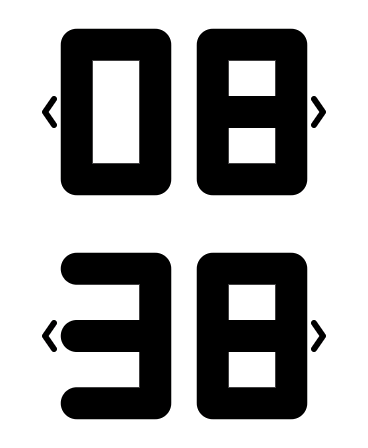
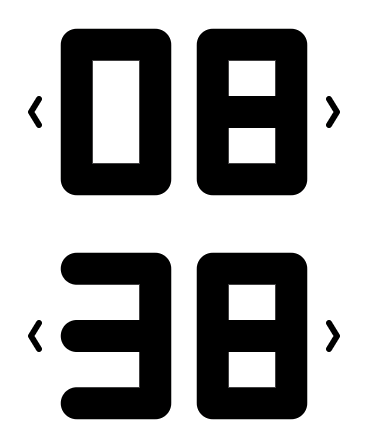
clock: the 1 stops hugging its right rail, and the separator breathes
Three things the owner judged on the emulator rather than in the abstract.

THE CENTRING, which I had explained instead of fixing. He was right that
nothing had moved. The face IS symmetric to the pixel - the separator sits
dead centre and the four digit cells leave 48px either side - but a leading 1
lights only segments b and c, hugging its cell's right rail, so 15:00 shows
110px of paper on the left against 48 on the right and reads as shoved over.
On real seven-segment glass that is forced by the hardware; here the numerals
are drawn, so it was a choice, and the wrong one. The 1 is now centred inside
its own cell. Nothing else moves, so the face does not shift as the time
changes.

THE FADE. He asked to try one, then found the first attempt stepped: sixteen
levels a cycle, ramped linearly, turning around at each end with a corner. It
is now 32 levels on a raised cosine, which slows into both ends and moves
fastest through the middle - which is what "a soft pulse" means to an eye.
Precomputed as sixteen bytes rather than called: no float, no libm, identical
every run. The cost is stated where it is paid: about 106,000 px/sec, two
thirds of one full-panel repaint per second, eight times the hard blink it
replaced, and confined to a cell that was already being pushed.

THE CHEVRONS, upright: "push the arrows away from the numbers, centered
between the end of the screen (minus the margin) and the numbers." Each is now
[…]

diff --git a/devices/rp2350-amoled-1.8/emulator/wasm/tests/feature-clock.ts b/devices/rp2350-amoled-1.8/emulator/wasm/tests/feature-clock.ts
@@ -86,8 +86,17 @@ const CHEV_L_GAP = 36;                // clock.c CHEV_L_GAP
 // positions that matter are the shared left/right X offsets, not a per-line
 // Y offset the way the old up/down layout needed.
 const CHEV_P_HOURS_CY = P_Y_HOURS + P_DIGIT_H / 2, CHEV_P_MIN_CY = P_Y_MINUTES + P_DIGIT_H / 2;
-const CHEV_P_LEFT_BASE = P_DIGIT_X[0]! - CHEV_P_GAP, CHEV_P_LEFT_APEX = CHEV_P_LEFT_BASE - CHEV_P_H;
-const CHEV_P_RIGHT_BASE = P_DIGIT_X[1]! + P_DIGIT_W + CHEV_P_GAP, CHEV_P_RIGHT_APEX = CHEV_P_RIGHT_BASE + CHEV_P_H;
+// Upright chevrons are centred in the free space between the bezel margin and
+// the digit block, not offset from the digits - clock.c's CHEV_P_LEFT_MID /
+// CHEV_P_RIGHT_MID, evaluated the same way here. Derived from the same spans
+// the firmware uses, so moving either the digits or the margin moves both
+// together instead of leaving this file probing empty paper.
+const CHEV_P_LEFT_MID = Math.floor((BEZEL + P_DIGIT_X[0]!) / 2);
+const CHEV_P_RIGHT_MID = Math.floor(((P_DIGIT_X[1]! + P_DIGIT_W) + (PANEL_W - BEZEL)) / 2);
+const CHEV_P_LEFT_BASE = CHEV_P_LEFT_MID + Math.floor(CHEV_P_H / 2);
+const CHEV_P_LEFT_APEX = CHEV_P_LEFT_MID - Math.floor(CHEV_P_H / 2);
+const CHEV_P_RIGHT_BASE = CHEV_P_RIGHT_MID - Math.floor(CHEV_P_H / 2);
+const CHEV_P_RIGHT_APEX = CHEV_P_RIGHT_MID + Math.floor(CHEV_P_H / 2);
 const CHEV_L_UP_BASE = L_Y0 - CHEV_L_GAP, CHEV_L_UP_APEX = CHEV_L_UP_BASE - CHEV_H;
 const CHEV_L_DN_BASE = L_Y0 + L_DIGIT_H + CHEV_L_GAP, CHEV_L_DN_APEX = CHEV_L_DN_BASE + CHEV_H;
 
@@ -742,9 +751,17 @@ async function main() {
         dev.tick(t);
         pulseLevels.add(landGray(dev.fbSnapshot(), dotsProbeX, dotsProbeY));
     }
-    check("the dots pulse between two ink levels on a working face, rather than sitting fixed",
-        pulseLevels.size >= 2 && pulseLevels.size <= 3,
-        `${pulseLevels.size} distinct ink levels over 5s: ${[...pulseLevels].sort((a, b) => a - b).join(", ")}`);
+    // Was "exactly two levels", which pinned the hard blink this started as.
+    // The owner then asked for a fade ("j'aimerais un fondu plus doux comme
+    // un pulse vraiment doux"), so two levels is now the FAILURE it would be
+    // measuring for: a switch, not a breath. What still has to hold is that
+    // it sweeps, and that it reaches both ends rather than hovering in some
+    // comfortable grey - a fade that never fully arrives reads as a smudge.
+    const sorted = [...pulseLevels].sort((a, b) => a - b);
+    const lo = sorted[0] ?? 255, hi = sorted[sorted.length - 1] ?? 0;
+    check("the dots fade rather than switch, and the sweep reaches both fully lit and fully gone",
+        pulseLevels.size >= 8 && lo <= 16 && hi >= 244,
+        `${pulseLevels.size} distinct ink levels over 5s, ${lo}..${hi}: ${sorted.join(", ")}`);
 
     // ---- 6. all four TURN edges, checked against the panel itself -----------
     console.log("\n-- the four TURN edges: top/bottom portrait, right/left long-ways --");

diff --git a/devices/rp2350-amoled-1.8/firmware/apps/clock.c b/devices/rp2350-amoled-1.8/firmware/apps/clock.c
@@ -376,6 +376,30 @@ static const int P_DIGIT_Y[4] = { P_Y_HOURS, P_Y_HOURS, P_Y_MINUTES, P_Y_MINUTES
 // a separator that is either there or is not cannot be confused with it.
 #define DOTS_PULSE_HALF_MS 1000u
 #define DOTS_PULSE_FAINT  255
+// How many ink levels one whole cycle is quantised into - see
+// dots_pulse_ink(). Even, so the curve has a symmetric peak.
+//
+// 32, not 16. At 16 the owner could see the steps: "le fondu est un peu trop
+// saccadé, j'aimerais un fondu plus doux comme un pulse vraiment doux".
+// Sixteen redraws a second is the point where the separator stops looking
+// like it is being switched through positions and starts looking like it is
+// breathing.
+#define DOTS_PULSE_STEPS  32u
+
+// A RAISED COSINE, not a straight ramp, and that is half of why the first
+// attempt read as jerky. A linear fade spends as long crossing the greys
+// nobody can tell apart as it does crossing the ones they can, and it turns
+// around at each end with a corner; a cosine slows into both ends and moves
+// fastest through the middle, which is what "a soft pulse" actually means to
+// an eye. Precomputed rather than called: no float, no libm, the same value
+// every run, and it is sixteen bytes.
+//
+// Read as "how lit", 0 gone through 255 fully lit, for the half-cycle; the
+// other half is this mirrored.
+static const uint8_t DOTS_PULSE_CURVE[16] = {
+      0,   3,  11,  24,  42,  64,  88, 114,
+    141, 167, 191, 213, 231, 244, 252, 255
+};
 
 // ---- the setting gesture's chevrons: four small marks, one per direction,
 // flanking each digit pair while set mode is open -------------------------
@@ -407,20 +431,28 @@ static const int P_DIGIT_Y[4] = { P_Y_HOURS, P_Y_HOURS, P_Y_MINUTES, P_Y_MINUTES
 #define CHEV_T      6
 #define CHEV_H      9   // long-ways: base-to-apex distance (vertical)
 
-// Upright: each chevron sits CHEV_P_GAP clear of its line's own left/right
-// digit edge, CHEV_P_H further out from there to its point. P_X0=60 and
-// P_X1+P_DIGIT_W=308 leave 60px of margin on both sides of the two-column
-// block (368 wide total) to spend this in - comfortably inside that with
-// room to spare, matching the mockup's own clearance rather than crowding
-// the bezel.
-#define CHEV_P_GAP  6
+// Upright: each chevron is CENTRED IN THE FREE SPACE, not tucked against the
+// digits. The owner: "in portrait mode you should push the arrows away from
+// the numbers, centered between the end of the screen (minus the margin you
+// have in mind) and the numbers."
+//
+// The free space on each side runs from the bezel margin to the digit block:
+// left is [PANEL_BEZEL_MARGIN_PX, P_X0] = [10, 60], right is
+// [P_X1+P_DIGIT_W, PANEL_W-PANEL_BEZEL_MARGIN_PX] = [308, 358]. Fifty pixels
+// each, so each chevron's own midpoint lands at 35 and 333 and it stands
+// alone in its column rather than reading as an ornament hung off a digit.
+//
+// Written as the midpoint of a span rather than as an offset from the digits,
+// so it stays right if either the digit block or the bezel margin ever moves.
 #define CHEV_P_H    9
 #define CHEV_P_HOURS_CY   (P_Y_HOURS + P_DIGIT_H / 2)
 #define CHEV_P_MIN_CY     (P_Y_MINUTES + P_DIGIT_H / 2)
-#define CHEV_P_LEFT_BASE  (P_X0 - CHEV_P_GAP)
-#define CHEV_P_LEFT_APEX  (CHEV_P_LEFT_BASE - CHEV_P_H)
-#define CHEV_P_RIGHT_BASE (P_X1 + P_DIGIT_W + CHEV_P_GAP)
-#define CHEV_P_RIGHT_APEX (CHEV_P_RIGHT_BASE + CHEV_P_H)
+#define CHEV_P_LEFT_MID   ((PANEL_BEZEL_MARGIN_PX + P_X0) / 2)
+#define CHEV_P_RIGHT_MID  (((P_X1 + P_DIGIT_W) + (PANEL_W - PANEL_BEZEL_MARGIN_PX)) / 2)
+#define CHEV_P_LEFT_BASE  (CHEV_P_LEFT_MID + CHEV_P_H / 2)
+#define CHEV_P_LEFT_APEX  (CHEV_P_LEFT_MID - CHEV_P_H / 2)
+#define CHEV_P_RIGHT_BASE (CHEV_P_RIGHT_MID - CHEV_P_H / 2)
+#define CHEV_P_RIGHT_APEX (CHEV_P_RIGHT_MID + CHEV_P_H / 2)
 
 // Long-ways: both pairs sit in the same single row (y=[L_Y0,
 // L_Y0+L_DIGIT_H)), so the up/down offsets are shared; only the x centre
@@ -843,7 +875,31 @@ static void draw_all_chevrons(bool upright) {
 // is the point - a pulsing clock and a breathing ghost must not read as the
 // same animation wearing two colours.
 static uint8_t dots_pulse_ink(uint32_t nowMs) {
-    return ((nowMs / DOTS_PULSE_HALF_MS) % 2u) ? DOTS_PULSE_FAINT : INK_LIT;
+    // A RAMP, NOT A SWITCH - the owner wants to see whether a fade reads
+    // better than a hard blink ("could do a faint fade in/out of the blink?
+    // just to try it out on the emulator"). Triangular over the full cycle:
+    // down to lit across the first half, back up to gone across the second,
+    // quantised to DOTS_PULSE_STEPS levels so the cell is repainted a fixed,
+    // countable number of times per cycle instead of on every frame.
+    //
+    // THE COST, since that is the whole reason this app refuses to show
+    // seconds: a hard blink repaints the separator's cell twice per two-second
+    // cycle, about 6,650 px/sec. This repaints it DOTS_PULSE_STEPS times per
+    // cycle instead - at 32, that is sixteen repaints a second, roughly
+    // 106,000 px/sec. That is about two thirds of one full-panel repaint per
+    // second, eight times the hard blink's cost, and still confined to a cell
+    // that was already being pushed. It is the price of a fade that reads as
+    // breathing rather than as stepping, and it is stated here rather than
+    // discovered later.
+    uint32_t cycle = DOTS_PULSE_HALF_MS * 2u;
+    uint32_t phase = nowMs % cycle;
+    uint32_t step = (phase * DOTS_PULSE_STEPS) / cycle;   // 0..STEPS-1
+    uint32_t half = DOTS_PULSE_STEPS / 2u;
+    uint32_t i = (step < half) ? step : (DOTS_PULSE_STEPS - 1u - step);
+    if (i >= half) i = half - 1u;
+    // The table is "how lit", 0 gone and 255 fully lit; the ink level this
+    // function returns runs the other way (INK_LIT is 0, black).
+    return (uint8_t)(DOTS_PULSE_FAINT - DOTS_PULSE_CURVE[i]);
 }
 
 // Turns the WHOLE panel 180 degrees in place - see "PICTURE, ROTATED, NOT

diff --git a/devices/rp2350-amoled-1.8/firmware/apps/digits.c b/devices/rp2350-amoled-1.8/firmware/apps/digits.c
@@ -178,6 +178,22 @@ void digits_draw_soft(digits_space_t space, int x, int y, int w, int h,
     float yB = (float)(y + h) - r - SOFT_INSET;
     float yM = (float)y + (float)h * 0.5f;
 
+    // THE ONE IS CENTRED IN ITS CELL, unlike a real seven-segment display,
+    // where it lights b and c and therefore hugs the right rail. On hardware
+    // that is forced by the glass; here the numerals are drawn, so it is a
+    // choice, and hugging right is the wrong one: the owner looked at 15:00
+    // on the clock and read the whole face as off-centre. It is not - the
+    // cells are symmetric to the pixel - but the leading 1 leaves most of
+    // its own cell empty, which the eye reads as a margin.
+    //
+    // Centring the stroke does not move any other digit, so nothing shifts
+    // as the time changes; only the 1's own position inside its own box.
+    if (value == 1) {
+        float cx = (float)x + (float)w * 0.5f;
+        xL = cx;
+        xR = cx;
+    }
+
     if (segs & 0x01) soft_capsule(space, xL, yT, xR, yT, r, colorPx); // a, top
     if (segs & 0x40) soft_capsule(space, xL, yM, xR, yM, r, colorPx); // g, middle
     if (segs & 0x08) soft_capsule(space, xL, yB, xR, yB, r, colorPx); // d, bottom
